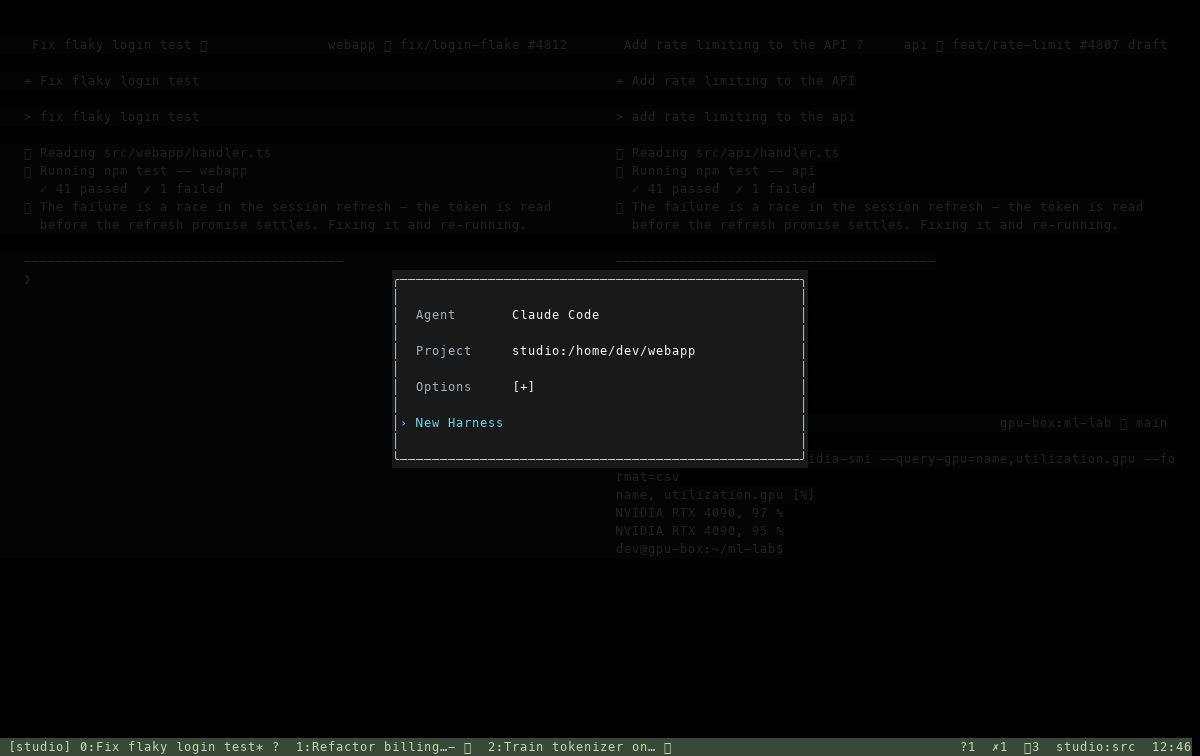
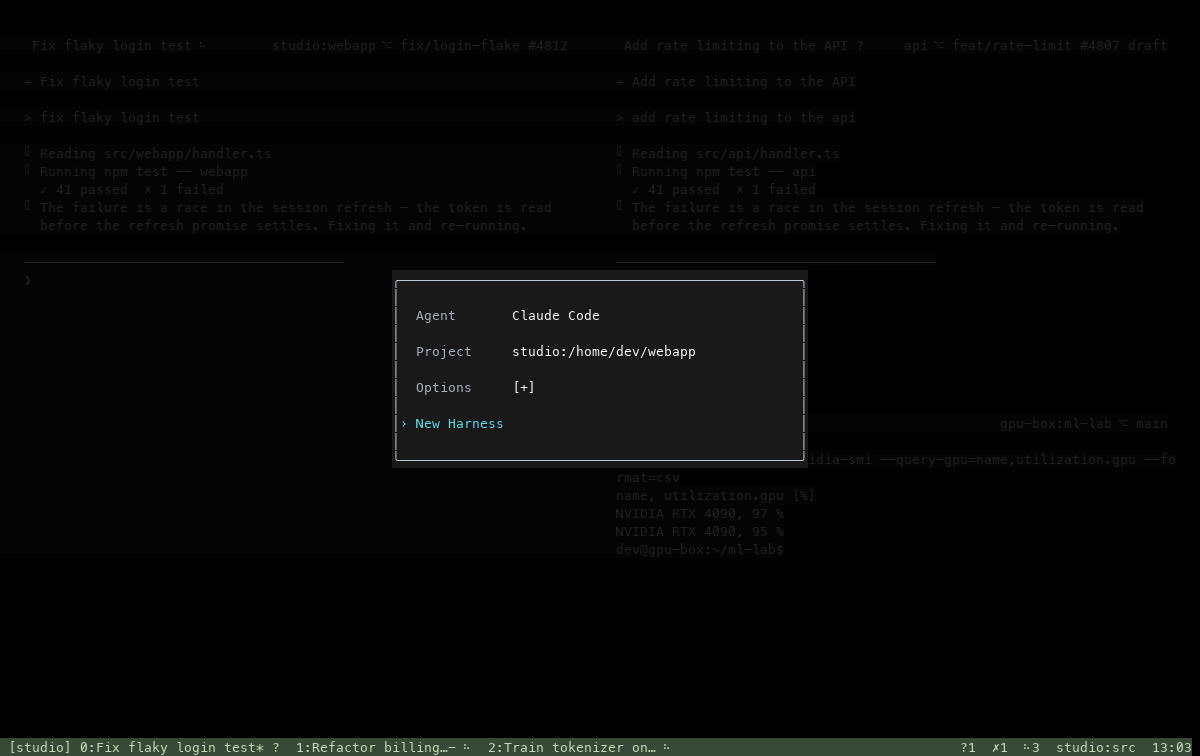
fix(hn): label local pane machines and clarify the branch marker

diff --git a/tui/src/format.rs b/tui/src/format.rs
@@ -1321,8 +1321,8 @@ fn table(app: &App, name: &str, window: usize, pane_id: Option<u64>) -> Option<V
         // The harness's symbol as its title draws it (#{pane_agent_icon}, styled): in its state's
         // colour, needs you bold, idle dim.
         "pane_agent_mark" => pane.and_then(|p| app.pane_state(p.id)).map(|s| agent_mark(s, app.tick)).unwrap_or_default(),
-        // Where the harness works: `project ⑂ branch`, then progressively shorter context
-        // as the pane narrows. The Unicode fork needs no patched icon font. A folder with
+        // Where the harness works: `machine:project ⎇ branch`, then progressively shorter context
+        // as the pane narrows. The Unicode branch marker needs no patched icon font. A folder with
         // no git shows its name.
         "pane_where" => pane.zip(agent).and_then(|(p, a)| {
             if a.branch.is_empty() && a.project.is_empty() { return None }
@@ -1330,14 +1330,15 @@ fn table(app: &App, name: &str, window: usize, pane_id: Option<u64>) -> Option<V
             let width = |s: &str| unicode_width::UnicodeWidthStr::width(s);
             let left = 1 + crate::draw::format_width(&pane_heading(app, window, p.id));
             let pr = a.pr.as_ref().map(|p| format!(" {}", p.label())).unwrap_or_default();
-            // A pane on another machine says which (scp's way: gpu-box:ml-lab).
-            let far = (p.machine_id != app.fleet.local_id && !a.project.is_empty()).then(|| format!("{}:", app.fleet.machine_name(&p.machine_id))).filter(|m| m.len() > 1);
-            let far_project = far.as_ref().map(|m| format!("{m}{}", a.project));
-            // A folder that is not a git repository: its name alone (and the machine's).
-            if a.branch.is_empty() { return [far_project, Some(a.project.clone())].into_iter().flatten().find(|c| room >= left + width(c) + 3) }
-            [far_project.as_ref().filter(|_| !pr.is_empty()).map(|fp| format!("{fp} ⑂ {}{pr}", a.branch)), far_project.as_ref().map(|fp| format!("{fp} ⑂ {}", a.branch)),
-                (!a.project.is_empty() && !pr.is_empty()).then(|| format!("{} ⑂ {}{pr}", a.project, a.branch)), (!a.project.is_empty()).then(|| format!("{} ⑂ {}", a.project, a.branch)),
-                (!pr.is_empty()).then(|| format!("⑂ {}{pr}", a.branch)), Some(format!("⑂ {}", a.branch)), Some(a.branch.clone())]
+            // Both local and remote panes name their machine when there is room.
+            // Drop it before project, branch or PR context as the pane narrows.
+            let machine = app.fleet.machine_name(&p.machine_id);
+            let qualified_project = (!machine.is_empty() && !a.project.is_empty()).then(|| format!("{machine}:{}", a.project));
+            if a.branch.is_empty() { return [qualified_project, Some(a.project.clone())].into_iter().flatten().find(|c| room >= left + width(c) + 3) }
+            [qualified_project.as_ref().filter(|_| !pr.is_empty()).map(|p| format!("{p} ⎇ {}{pr}", a.branch)),
+                (!a.project.is_empty() && !pr.is_empty()).then(|| format!("{} ⎇ {}{pr}", a.project, a.branch)),
+                qualified_project.as_ref().map(|p| format!("{p} ⎇ {}", a.branch)), (!a.project.is_empty()).then(|| format!("{} ⎇ {}", a.project, a.branch)),
+                (!pr.is_empty()).then(|| format!("⎇ {}{pr}", a.branch)), Some(format!("⎇ {}", a.branch)), Some(a.branch.clone())]
                 .into_iter().flatten().find(|c| room >= left + width(c) + 3)
         }).unwrap_or_default(),
         // A pane's harness at a glance, as its title shows it (empty for a plain shell), and what it

diff --git a/tui/tests/pane-ui.py b/tui/tests/pane-ui.py
@@ -302,20 +302,24 @@ try:
     wait(lambda: value('#{pane_id}') == third, 'second C-b Right')
     keys('C-b', 'Right')
     wait(lambda: value('#{pane_id}') == first, 'directional wrap')
-    keys('C-b', 'z')
-    wait(lambda: value('#{window_zoomed_flag}') == '1', 'zoom')
-    branch_context = value('#{pane_where}')
-    assert '⑂ ' + value('#{pane_branch}') in branch_context, branch_context
-    assert 'git:(' not in branch_context
-    wait(lambda: not pane_outline(first) and background_at(1, 1) == active_bg
-         and background_at(0, 0) == background_at(149, 40) == '#202020',
-         'zoomed pane keeps its focused surface inside the canvas')
-    wait(lambda: background_at(0, 41) == normal_bg, 'status bar keeps its own color after transient completion notices')
-    x, y, w = map(int, value('#{pane_left} #{pane_top} #{pane_width}', first).split())
-    wait(lambda: tmux('capture-pane', '-p', '-t', 'test').splitlines()[y - 2][x:x + w].rstrip().endswith(branch_context), 'branch and PR align to the right edge')
-    snapshot('panes-zoomed')
-    keys('C-b', 'z')
-    wait(lambda: value('#{window_zoomed_flag}') == '0', 'unzoom')
+    for target in (first, third):
+        hn('select-pane', '-t', target)
+        keys('C-b', 'z')
+        wait(lambda: value('#{window_zoomed_flag}') == '1', 'zoom')
+        branch_context = value('#{pane_where}')
+        assert branch_context.startswith(value('#{pane_machine}:#{pane_project}') + ' '), branch_context
+        assert '⎇ ' + value('#{pane_branch}') in branch_context, branch_context
+        assert 'git:(' not in branch_context
+        wait(lambda: not pane_outline(target) and background_at(1, 1) == active_bg
+             and background_at(0, 0) == background_at(149, 40) == '#202020',
+             'zoomed pane keeps its focused surface inside the canvas')
+        wait(lambda: background_at(0, 41) == normal_bg, 'status bar keeps its own color after transient completion notices')
+        x, y, w = map(int, value('#{pane_left} #{pane_top} #{pane_width}', target).split())
+        wait(lambda: tmux('capture-pane', '-p', '-t', 'test').splitlines()[y - 2][x:x + w].rstrip().endswith(branch_context), 'machine, project, branch and PR align to the right edge')
+        snapshot('panes-zoomed' if target == first else 'panes-remote-zoomed')
+        keys('C-b', 'z')
+        wait(lambda: value('#{window_zoomed_flag}') == '0', 'unzoom')
+    hn('select-pane', '-t', first)
     assert value('#{window_layout}') == original
     print('PASS pane UI: directional keys, wrap, zoom preserve layout structure', flush=True)
 

diff --git a/tui/README.md b/tui/README.md
@@ -102,7 +102,7 @@ harnesses waiting on you and the one in front; `set-titles-string` changes it), 
 each window's most urgent harness state follows its name and tmux marker; idle dots are hidden
 in tabs and pane headers. Connection, quota,
 fleet counts, `machine:folder` and clock sit on the right. The git branch stays in its pane
-header, aligned to the right with its PR and written `⑂ branch` without redundant punctuation.
+header, aligned to the right with its PR and written `⎇ branch` without redundant punctuation.
 Status-bar groups are separated by two spaces, with one space at each outer edge to align
 with the pane surfaces. The left session label always stays visible: the
 desk uses the local machine name, independent of the focused pane's machine on the right.
@@ -240,7 +240,8 @@ For your own formats: `#{fleet}` (the status line's counts, ready to drop into y
 paused, offline), `#{pane_agent_mark}` (the icon in its colour, as the title row draws it),
 `#{pane_heading}` (the name, state and watcher label fitted to the pane header; `#{pane_title}`
 stays complete), `#{window_agent_icon}` and `#{window_agent_state}` (its most urgent pane's), `#{pane_project}`,
-`#{pane_branch}`, `#{pane_where}` (`project ⑂ branch #123` as far as it fits beside the title),
+`#{pane_branch}`, `#{pane_where}` (`machine:project ⎇ branch #123` as far as it fits beside the title;
+local and remote machine prefixes yield to project, branch and PR context in narrow panes),
 `#{pane_pr}` `#{pane_pr_state}` `#{pane_pr_url}` (the pull request for its branch), `#{pane_tokens}`
 and `#{fleet_tokens}` (what it, and all of them, have used: `1.2M`), `#{pane_lines}` (`+340 −52`),
 `#{pane_asked}` and `#{pane_did}` (what it was last asked, and what its last turn came to),
